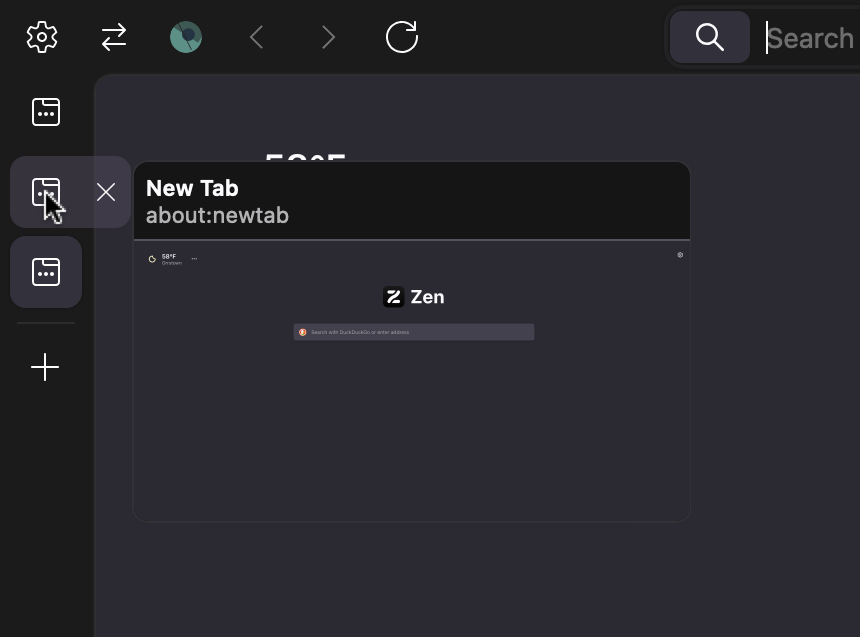
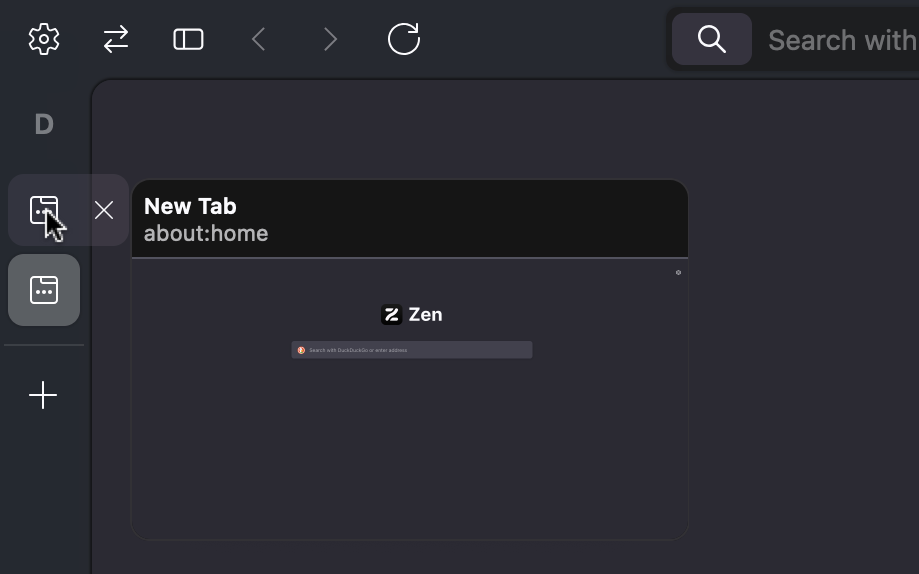
Update tab background layering for translucent windows

diff --git a/chrome.css b/chrome.css
@@ -24,6 +24,7 @@
   #navigator-toolbox {
     --tab-outwards-direction: rtl;
     --tab-inwards-direction: ltr;
+    --tab-hover-background-base-color: color-mix(in lch, var(--zen-navigator-toolbox-background, light-dark(#E5E5E5, #303030)) 35%, transparent);
     z-index: 4;
 
     .tabbrowser-tab {
@@ -73,21 +74,21 @@
     margin-inline-end: calc(var(--zen-toolbox-padding) - var(--tab-collapsed-hover-expansion-width)) !important;
 
     & .tab-background {
+      --tabbar-transition-offset: calc(var(--tab-collapsed-background-width) + var(--zen-toolbox-padding) + 2px);
+      --tab-base-transition-blending: 3px;
       position: relative;
       width: calc(var(--tab-collapsed-background-width) + var(--tab-collapsed-hover-expansion-width)) !important;
+      z-index: auto !important; /* Allows .tab-background::before to be layered under .tab-background */
 
-      &:not([selected]) {
-        background-color: color-mix(in lch, var(--zen-navigator-toolbox-background, var(--zen-main-browser-background)) 50%, transparent) !important;
+      &::before {
+        content: " ";
+        position: absolute;
+        left: calc(var(--tabbar-transition-offset) - var(--tab-base-transition-blending));
+        width: calc(100% - var(--tabbar-transition-offset) + var(--tab-base-transition-blending));;
+        height: 100%;
+        background: linear-gradient(to right, transparent, var(--tab-hover-background-base-color) var(--tab-base-transition-blending));
+        z-index: -1;
       }
-    }
-
-    & .tab-background:not([selected])::before {
-      content: " ";
-      position: absolute;
-      top: 0px;
-      width: 100%;
-      height: 100%;
-      background-color: var(--tab-hover-background-color);
     }
 
     & .tab-close-button {
